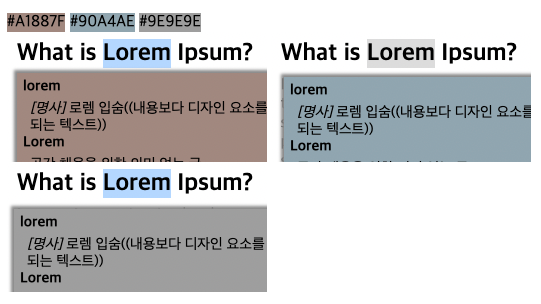
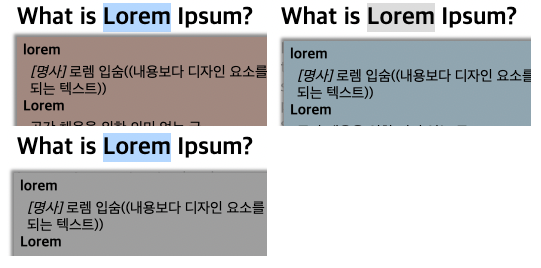
docs: refresh final theme image

diff --git a/docs/themes.html b/docs/themes.html
@@ -22,10 +22,6 @@
         <p>NaverDic 7.0에서는 설정 페이지의 모양 메뉴에서 팝업의 배경색, 글자색, 글자 크기를 취향에 맞게 바꿀 수 있습니다.</p>
         <figure class="theme-example">
           <img src="assets/theme-settings.png" width="827" height="498" alt="네이버 영어사전 v7.0 모양 설정 화면">
-          <figcaption class="theme-codes">
-            <span>배경색</span><mark class="theme-color-code" style="background-color:#F5F6F8">#F5F6F8</mark>
-            <span>글자색</span><code>#000000</code>
-          </figcaption>
         </figure>
         <p>기본색이 질리신 분들을 위해 몇 가지 샘플 테마를 소개해 드리니 입맛에 맞게 골라 사용해 보세요. 이미지 아래의 색상 코드를 드래그해 복사한 뒤 팝업 배경색 입력란에 넣어주면 됩니다.</p>
         <figure class="theme-example">
@@ -59,7 +55,7 @@
           </figcaption>
         </figure>
         <figure class="theme-example">
-          <img src="assets/theme6.png" width="541" height="304" alt="회색 계열의 네이버 사전 팝업 테마" loading="lazy">
+          <img src="assets/theme6.png" width="541" height="268" alt="회색 계열의 네이버 사전 팝업 테마" loading="lazy">
           <figcaption class="theme-codes" aria-label="회색 계열 배경색 코드">
             <span>배경색</span><mark class="theme-color-code" style="background-color:#A1887F">#A1887F</mark><mark class="theme-color-code" style="background-color:#90A4AE">#90A4AE</mark><mark class="theme-color-code" style="background-color:#9E9E9E">#9E9E9E</mark>
           </figcaption>
